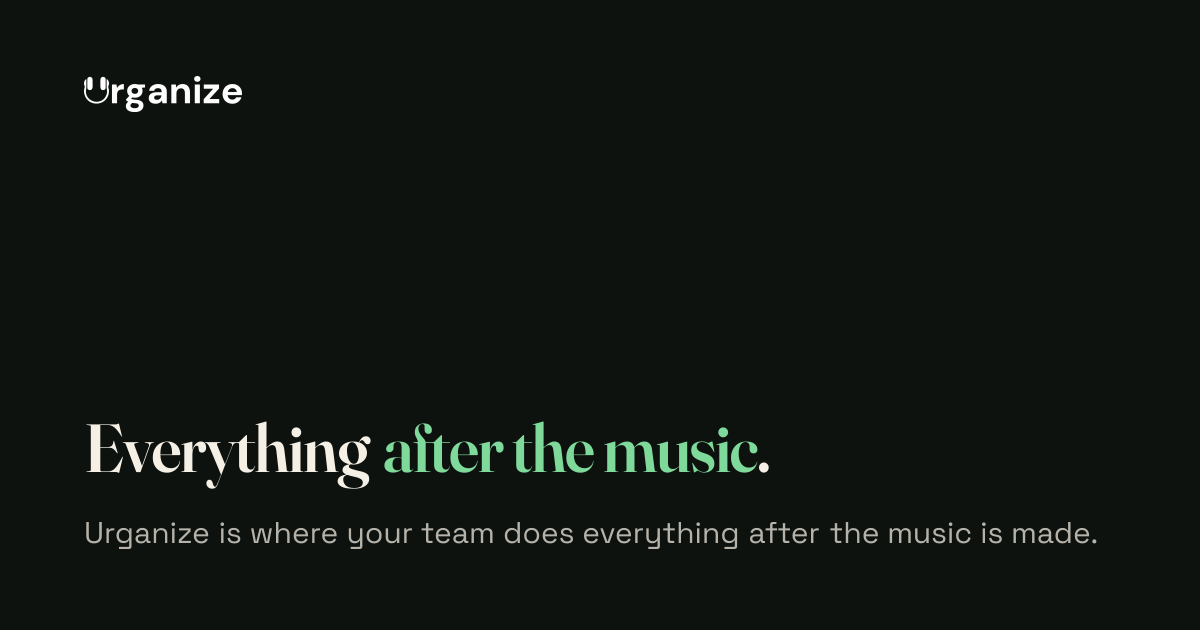
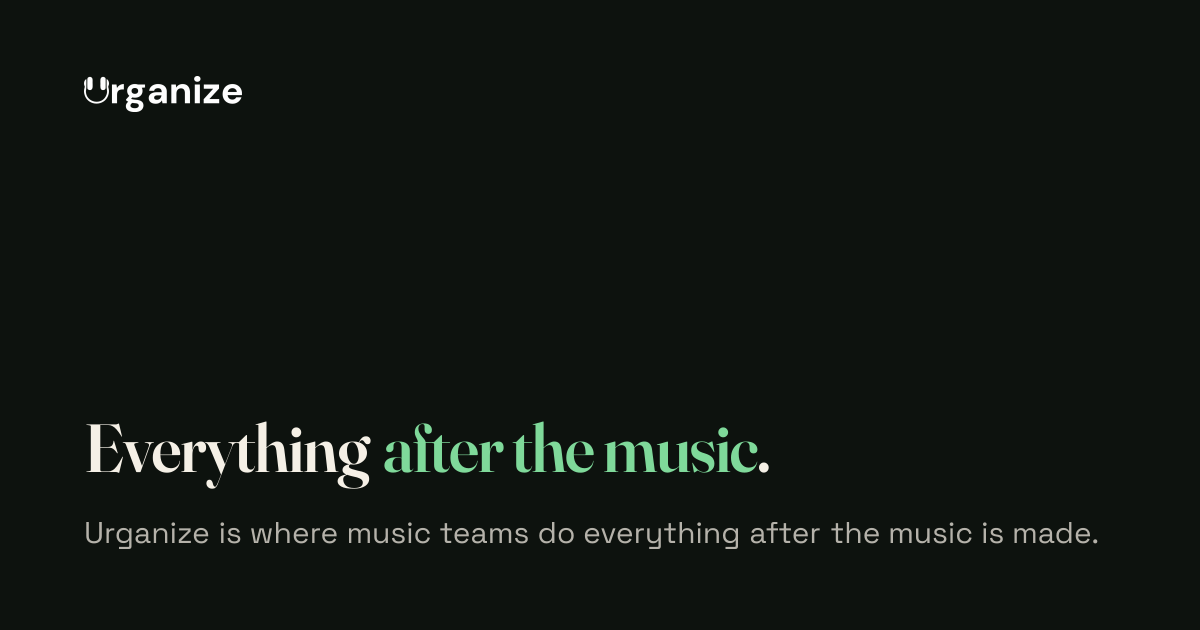
copy(positioning): the one-liner says music teams
CORE_CLAUSE becomes 'where music teams do everything after the music is made', the strategy doc's one-line version. Changed in both copies of the positioning module, UrgAns's instructions, the share image (regenerated, SHARE_IMAGE_VERSION bumped), the package descriptions and the store listing draft. The long description still says 'your team'. Positioning copy, so no changelog entry.

Changed region(s): [[0.2775, 0.8143, 0.925, 0.8746]]

diff --git a/apps/web/lib/positioning-guard.test.ts b/apps/web/lib/positioning-guard.test.ts
@@ -19,7 +19,7 @@ import {
 /**
  * The positioning, enforced rather than reviewed.
  *
- * Since 2026-09-24: Urganize is where your team does everything after the
+ * Since 2026-09-24: Urganize is where music teams do everything after the
  * music is made. That brief retired the category the product had been
  * introduced by since 2026-09-09 ("AI Music Business Manager"), and every
  * earlier brief retired phrases of its own. They all ask for zero hits in
@@ -231,7 +231,9 @@ describe('positioning', () => {
     // The 2026-09-24 brief gave these verbatim. Pinned as literals, not
     // against the module's own parts, because what matters is that the words
     // are the founder's rather than that the module agrees with itself.
-    expect(CORE_LINE).toBe('Urganize is where your team does everything after the music is made.');
+    // The core line says "music teams" since 2026-10-02, the strategy doc's
+    // one-line version; the long description below still says "your team".
+    expect(CORE_LINE).toBe('Urganize is where music teams do everything after the music is made.');
     expect(SHORT_LINE).toBe('Everything after the music.');
     expect(CANONICAL_DESCRIPTION).toBe(
       'You make the music. Urganize is where your team does everything after. ' +

diff --git a/apps/web/lib/positioning.ts b/apps/web/lib/positioning.ts
@@ -44,12 +44,17 @@
  */
 
 /**
- * The core line without its subject: "where your team does everything after
+ * The core line without its subject: "where music teams do everything after
  * the music is made". For a sentence that already names Urganize ("Urganize,
- * where your team...", "Urganize is where your team...") so a page can say it
+ * where music teams...", "Urganize is where music teams...") so a page can say it
  * without repeating the name twice in a row.
+ *
+ * "Music teams" since 2026-10-02, the strategy doc's one-line version
+ * (docs/strategy/company-strategy.md, section 1). It said "your team" from
+ * 2026-09-24. The long description below keeps "your team" as the founder
+ * wrote it.
  */
-export const CORE_CLAUSE = 'where your team does everything after the music is made';
+export const CORE_CLAUSE = 'where music teams do everything after the music is made';
 
 /** The core line. Introduces the product anywhere a whole sentence fits. */
 export const CORE_LINE = `Urganize is ${CORE_CLAUSE}.`;

diff --git a/apps/web/lib/chappi/system-prompt.ts b/apps/web/lib/chappi/system-prompt.ts
@@ -51,7 +51,7 @@ export const URGANS_COPY_RULES =
  *    that gets put out) in the one module that owns that line. "Word for word"
  *    is what stops the model rewording it to "rollout" under the copy rules
  *    further down. */
-export const ROLE = `You are UrgAns, the personal AI for music professionals inside Urganize, where your team does everything after the music is made. You help the user run their rollouts: answering questions, and doing the work on their behalf.
+export const ROLE = `You are UrgAns, the personal AI for music professionals inside Urganize, where music teams do everything after the music is made. You help the user run their rollouts: answering questions, and doing the work on their behalf.
 
 If you are asked what Urganize is, answer with its own line, word for word: "${CORE_LINE}" If they want to know more, add its longer description, also word for word: "${CANONICAL_DESCRIPTION}" If you are asked what YOU are, you are the personal AI inside it.
 

diff --git a/apps/homepage/lib/seo.ts b/apps/homepage/lib/seo.ts
@@ -58,7 +58,7 @@ export const LANDING_DESCRIPTION = CANONICAL_DESCRIPTION;
 // Bump this string every time public/opengraph-image.png changes so the
 // URL is new to every platform and the very next fetch pulls fresh bytes,
 // instead of depending on a manual re-scrape request or an unknown TTL.
-const SHARE_IMAGE_VERSION = "2026-09-24-everything-after-the-music";
+const SHARE_IMAGE_VERSION = "2026-10-02-music-teams";
 
 const SHARE_IMAGE = {
   url: `${SITE_URL}/opengraph-image.png?v=${SHARE_IMAGE_VERSION}`,

diff --git a/apps/homepage/lib/positioning.ts b/apps/homepage/lib/positioning.ts
@@ -22,7 +22,7 @@
  * marketing site and the product two different descriptions.
  */
 
-export const CORE_CLAUSE = 'where your team does everything after the music is made';
+export const CORE_CLAUSE = 'where music teams do everything after the music is made';
 
 export const CORE_LINE = `Urganize is ${CORE_CLAUSE}.`;
 

diff --git a/CLAUDE.md b/CLAUDE.md
@@ -41,7 +41,7 @@ Found on 2026-10-02 by reading the code against the doc. Each is a fix to make, 
 | 5 | Low-balance warning below 50 credits | Warns at a fifth of the monthly amount, or at 10 | `components/app/UrgansUsageStrip.tsx` |
 | 6 | A credit history page | Does not exist | |
 | 7 | Credits ship behind a flag that starts off; the 40 and 150 action limits stay until credits are tested | Credits were switched on in production in v1.55.0 | The doc is dated one day before that release; confirm with the founder which is current |
-| 8 | "where music teams do everything after the music is made" | "where your team does everything after the music is made" | `apps/web/lib/positioning.ts` and its homepage mirror |
+| 8 | "where music teams do everything after the music is made" | **Fixed 2026-10-02.** `CORE_CLAUSE` says "music teams" in both copies of the module, UrgAns's instructions, the share image (regenerated, `SHARE_IMAGE_VERSION` bumped), the package descriptions and the store listing draft. The long description (`CANONICAL_DESCRIPTION`) still says "your team" as the founder wrote it on 2026-09-24 | `apps/web/lib/positioning.ts` and its homepage mirror |
 | 9 | Uses "small labels" to describe who we sell to | "small labels" is a retired phrase the positioning guard blocks in site copy | `apps/web/lib/positioning-guard.test.ts`; fine in internal docs, not in copy without changing the guard |
 | 10 | The scoreboard: weekly active paying teams (2 or more members active in 7 days, on Manager, Label or Group), second-release rate, week 4 retention, trial to paid | **Built 2026-10-02** at `/admin/scoreboard`; see "The company scoreboard" at the end of this file. Task edits were recorded nowhere before that day, so activity from before it undercounts | `lib/scoreboard.ts` |
 | 11 | Distribution ordering, crypto payments, referral credits, the Sound Wave Spotlight referral code with its 10% commission | None is built | |
@@ -52,7 +52,7 @@ Found on 2026-10-02 by reading the code against the doc. Each is a fix to make, 
 
 ## What Urganize is
 
-**Urganize is where your team does everything after the music is made.** You make the music; Urganize is where your team plans the release, assigns the work, keeps files and metadata in one place, pitches to curators, books shows and puts the release out, for artists, managers and labels. That is the founder's positioning since 2026-09-24 (see "Everything after the music" at the end of this file). It replaced the category line "AI Music Business Manager" (locked 2026-09-09, widened 2026-09-11, audience narrowed the same day and widened back to three on 2026-09-24), which UrgAns's system prompt kept for one more day, until the founder decided on 2026-09-25 that the assistant says the new line too. The canonical strings live in `apps/web/lib/positioning.ts` and are enforced by `apps/web/lib/positioning-guard.test.ts`. What v1 BUILDS is unchanged and is the six-feature list below: a release management surface, described here in the words a customer reads rather than the words the build used.
+**Urganize is where music teams do everything after the music is made.** (Since 2026-10-02 the core line says "music teams", the strategy doc's one-line version; it said "your team" from 2026-09-24, and the long description still does.) You make the music; Urganize is where your team plans the release, assigns the work, keeps files and metadata in one place, pitches to curators, books shows and puts the release out, for artists, managers and labels. That is the founder's positioning since 2026-09-24 (see "Everything after the music" at the end of this file). It replaced the category line "AI Music Business Manager" (locked 2026-09-09, widened 2026-09-11, audience narrowed the same day and widened back to three on 2026-09-24), which UrgAns's system prompt kept for one more day, until the founder decided on 2026-09-25 that the assistant says the new line too. The canonical strings live in `apps/web/lib/positioning.ts` and are enforced by `apps/web/lib/positioning-guard.test.ts`. What v1 BUILDS is unchanged and is the six-feature list below: a release management surface, described here in the words a customer reads rather than the words the build used.
 
 **Target user for v1** (superseded 2026-10-02 by the strategy doc, see "Company strategy comes first" above; kept as the record of the v1 build): an artist manager or small label running more than one artist's releases at once. Not enterprise teams, not artists directly. Team-scale coordination (handoffs, files, status across a roster) is the paying pain point, confirmed directly: a solo manager with one artist already has a workable system (WhatsApp, Drive, calendar) and won't switch. Labels running a full roster are served by the premium Label tier (founder-delivered onboarding + template tailoring), not the self-serve core wedge.
 

diff --git a/PROJECT_SUMMARY.md b/PROJECT_SUMMARY.md
@@ -6,7 +6,7 @@ A high-level snapshot of what this codebase is and where it stands. The deep, al
 
 ## The product
 
-Urganize is **where your team does everything after the music is made**. The music industry runs on chaos: group chats, spreadsheets, one overworked person holding every release together. Urganize v1 gives an independent music manager (1-3 artists, next release inside 90 days) one place for the plan, the tasks, the files and the status, all attached to the release.
+Urganize is **where music teams do everything after the music is made**. The music industry runs on chaos: group chats, spreadsheets, one overworked person holding every release together. Urganize v1 gives an independent music manager (1-3 artists, next release inside 90 days) one place for the plan, the tasks, the files and the status, all attached to the release.
 
 **The release is the spine.** Every feature ties back to a specific release. Hand-crafted release templates carry the domain knowledge; AI is a removable polish layer on top — the product works, degraded but functional, if AI is unavailable.
 

diff --git a/REFACTOR_NOTES.md b/REFACTOR_NOTES.md
@@ -13,7 +13,7 @@ Read-only audit of `apps/web` against the root `CLAUDE.md`. No code modified.
 ### Conventions and architectural principles established by `CLAUDE.md`
 
 **Product shape (v1):**
-- Urganize is where your team does everything after the music is made; v1 targets independent music managers (1-3 artists).
+- Urganize is where music teams do everything after the music is made; v1 targets independent music managers (1-3 artists).
 - **The release is the spine.** Every feature must tie back to a release; if it can't, it's not v1.
 - Six v1 scope items only: release object, AI-tailored rollout plan from templates, tasks (assignees+dependencies), file/asset attachment, lightweight event milestones, AI status update generator.
 - A long, explicit "out of scope" list — answer is *v2* for anything on it.

diff --git a/docs/store-listing.md b/docs/store-listing.md
@@ -40,7 +40,7 @@ where a long name is truncated anyway.
 ### Short description (80 characters max)
 
 ```
-Urganize is where your team does everything after the music is made.
+Urganize is where music teams do everything after the music is made.
 ```
 
 68 characters. This is the core line from `positioning.ts` (`CORE_LINE`),
@@ -138,7 +138,7 @@ Apple's subtitle is the one field on either store that holds it whole.
 ### Promotional text (170 characters max)
 
 ```
-Urganize is where your team does everything after the music is made.
+Urganize is where music teams do everything after the music is made.
 ```
 
 68 characters. This is `SHORT_DESCRIPTION` from `positioning.ts`, which is the
